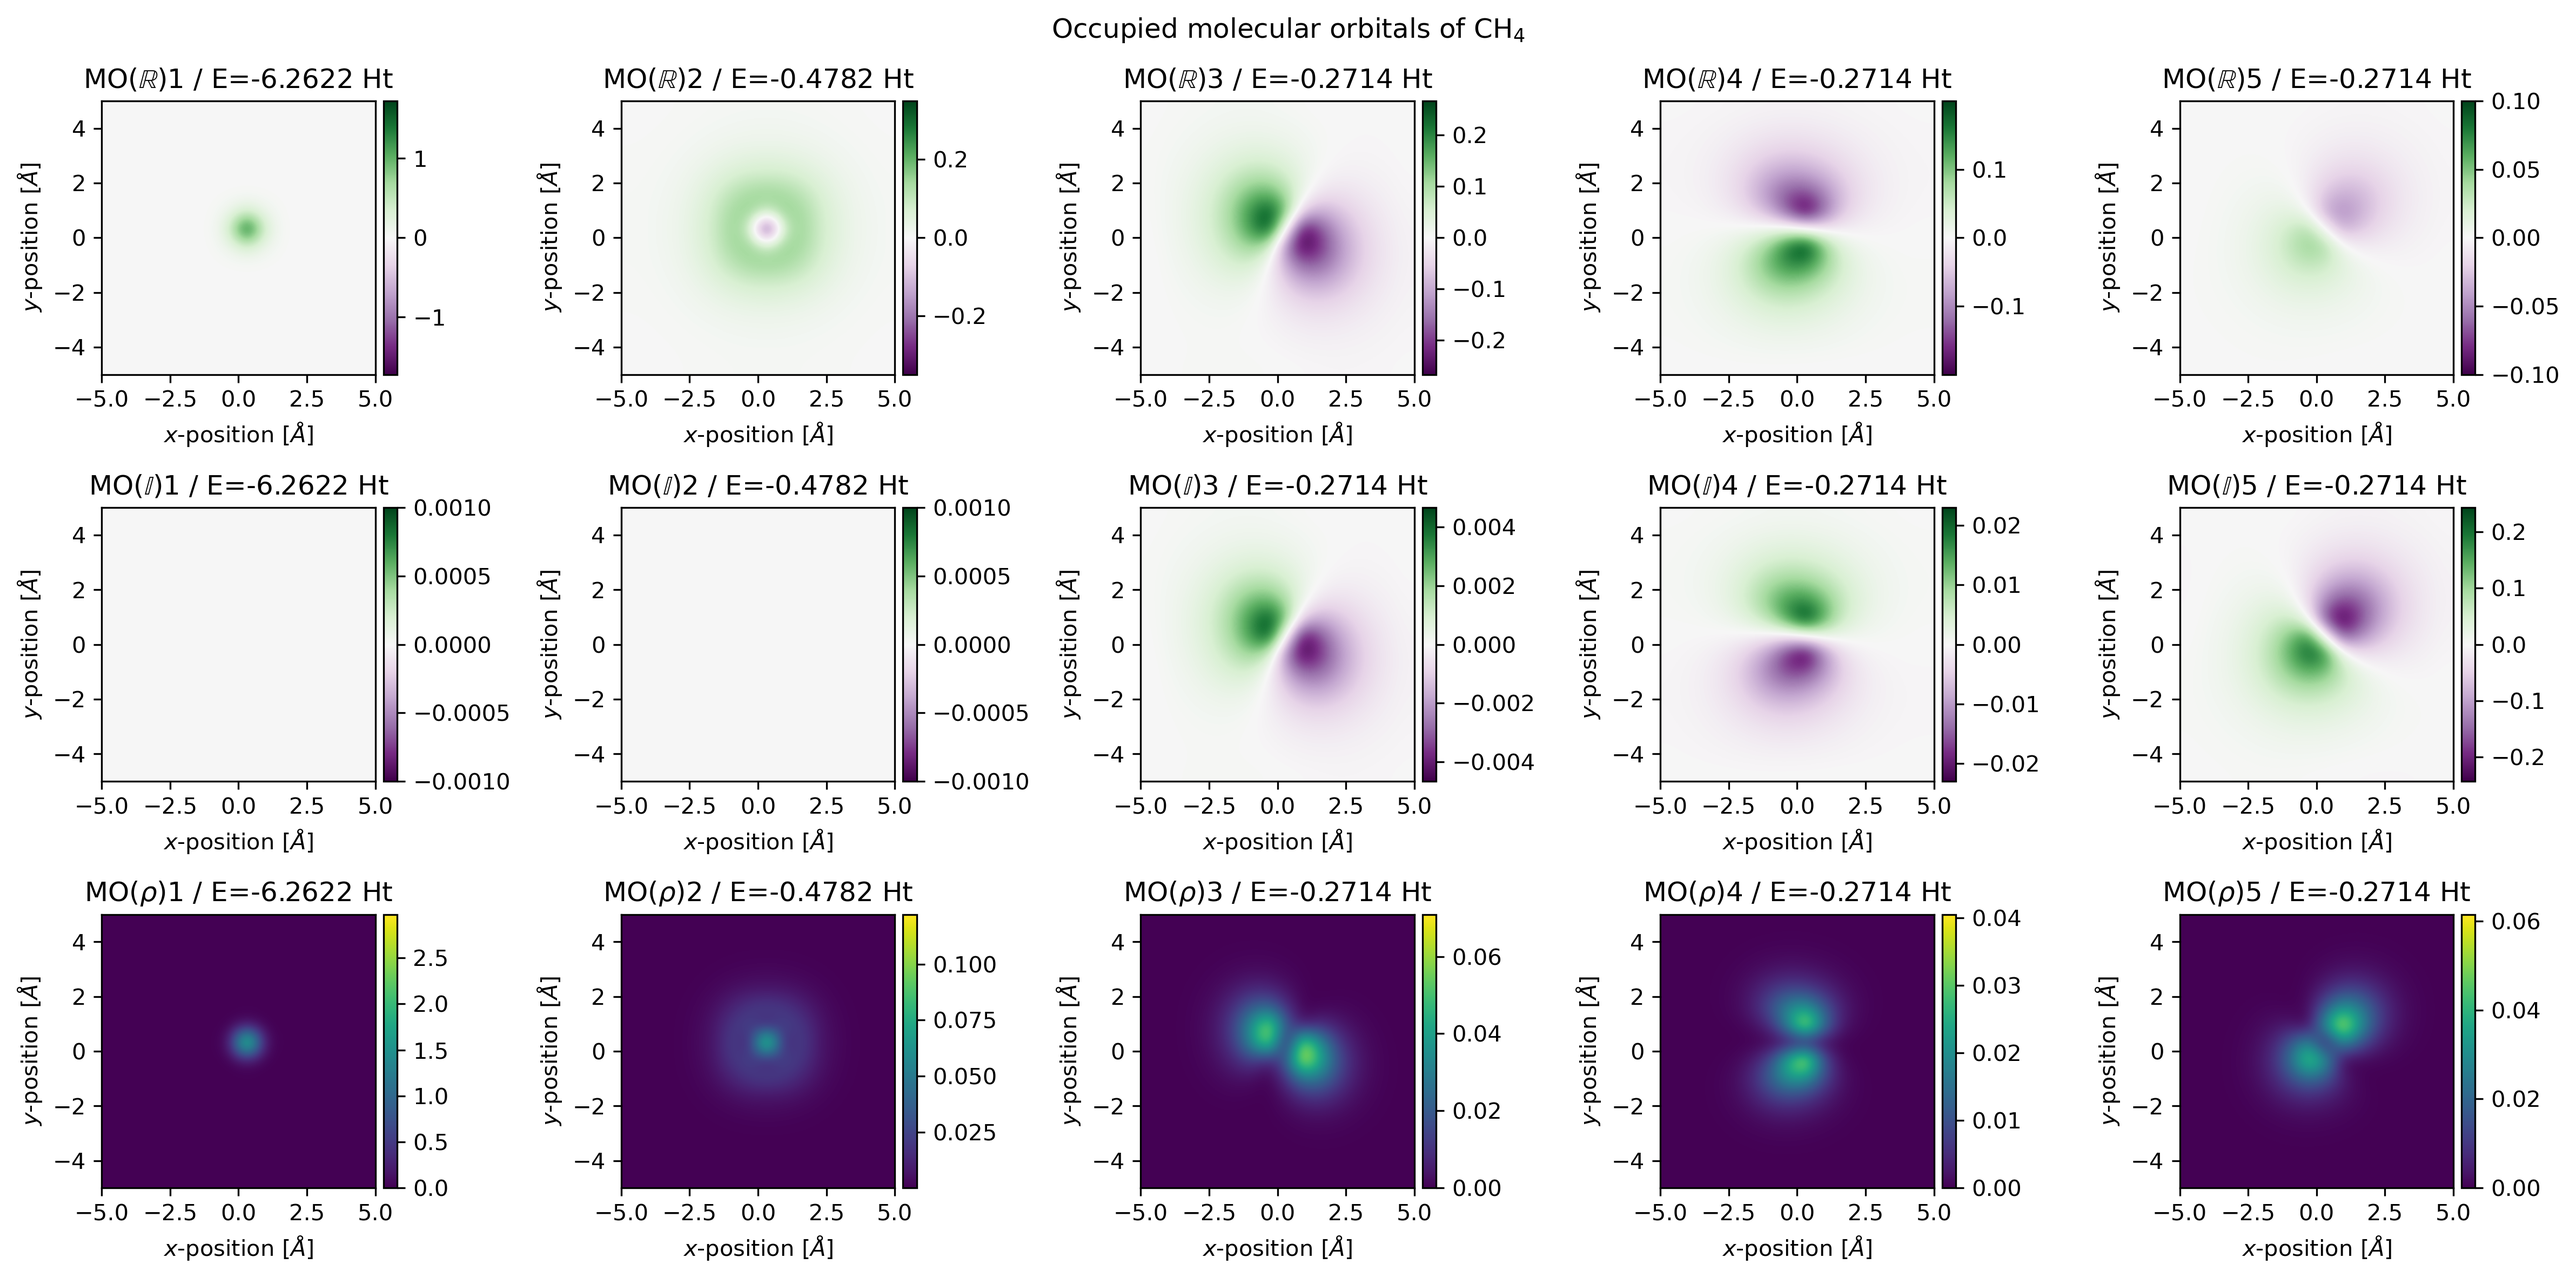
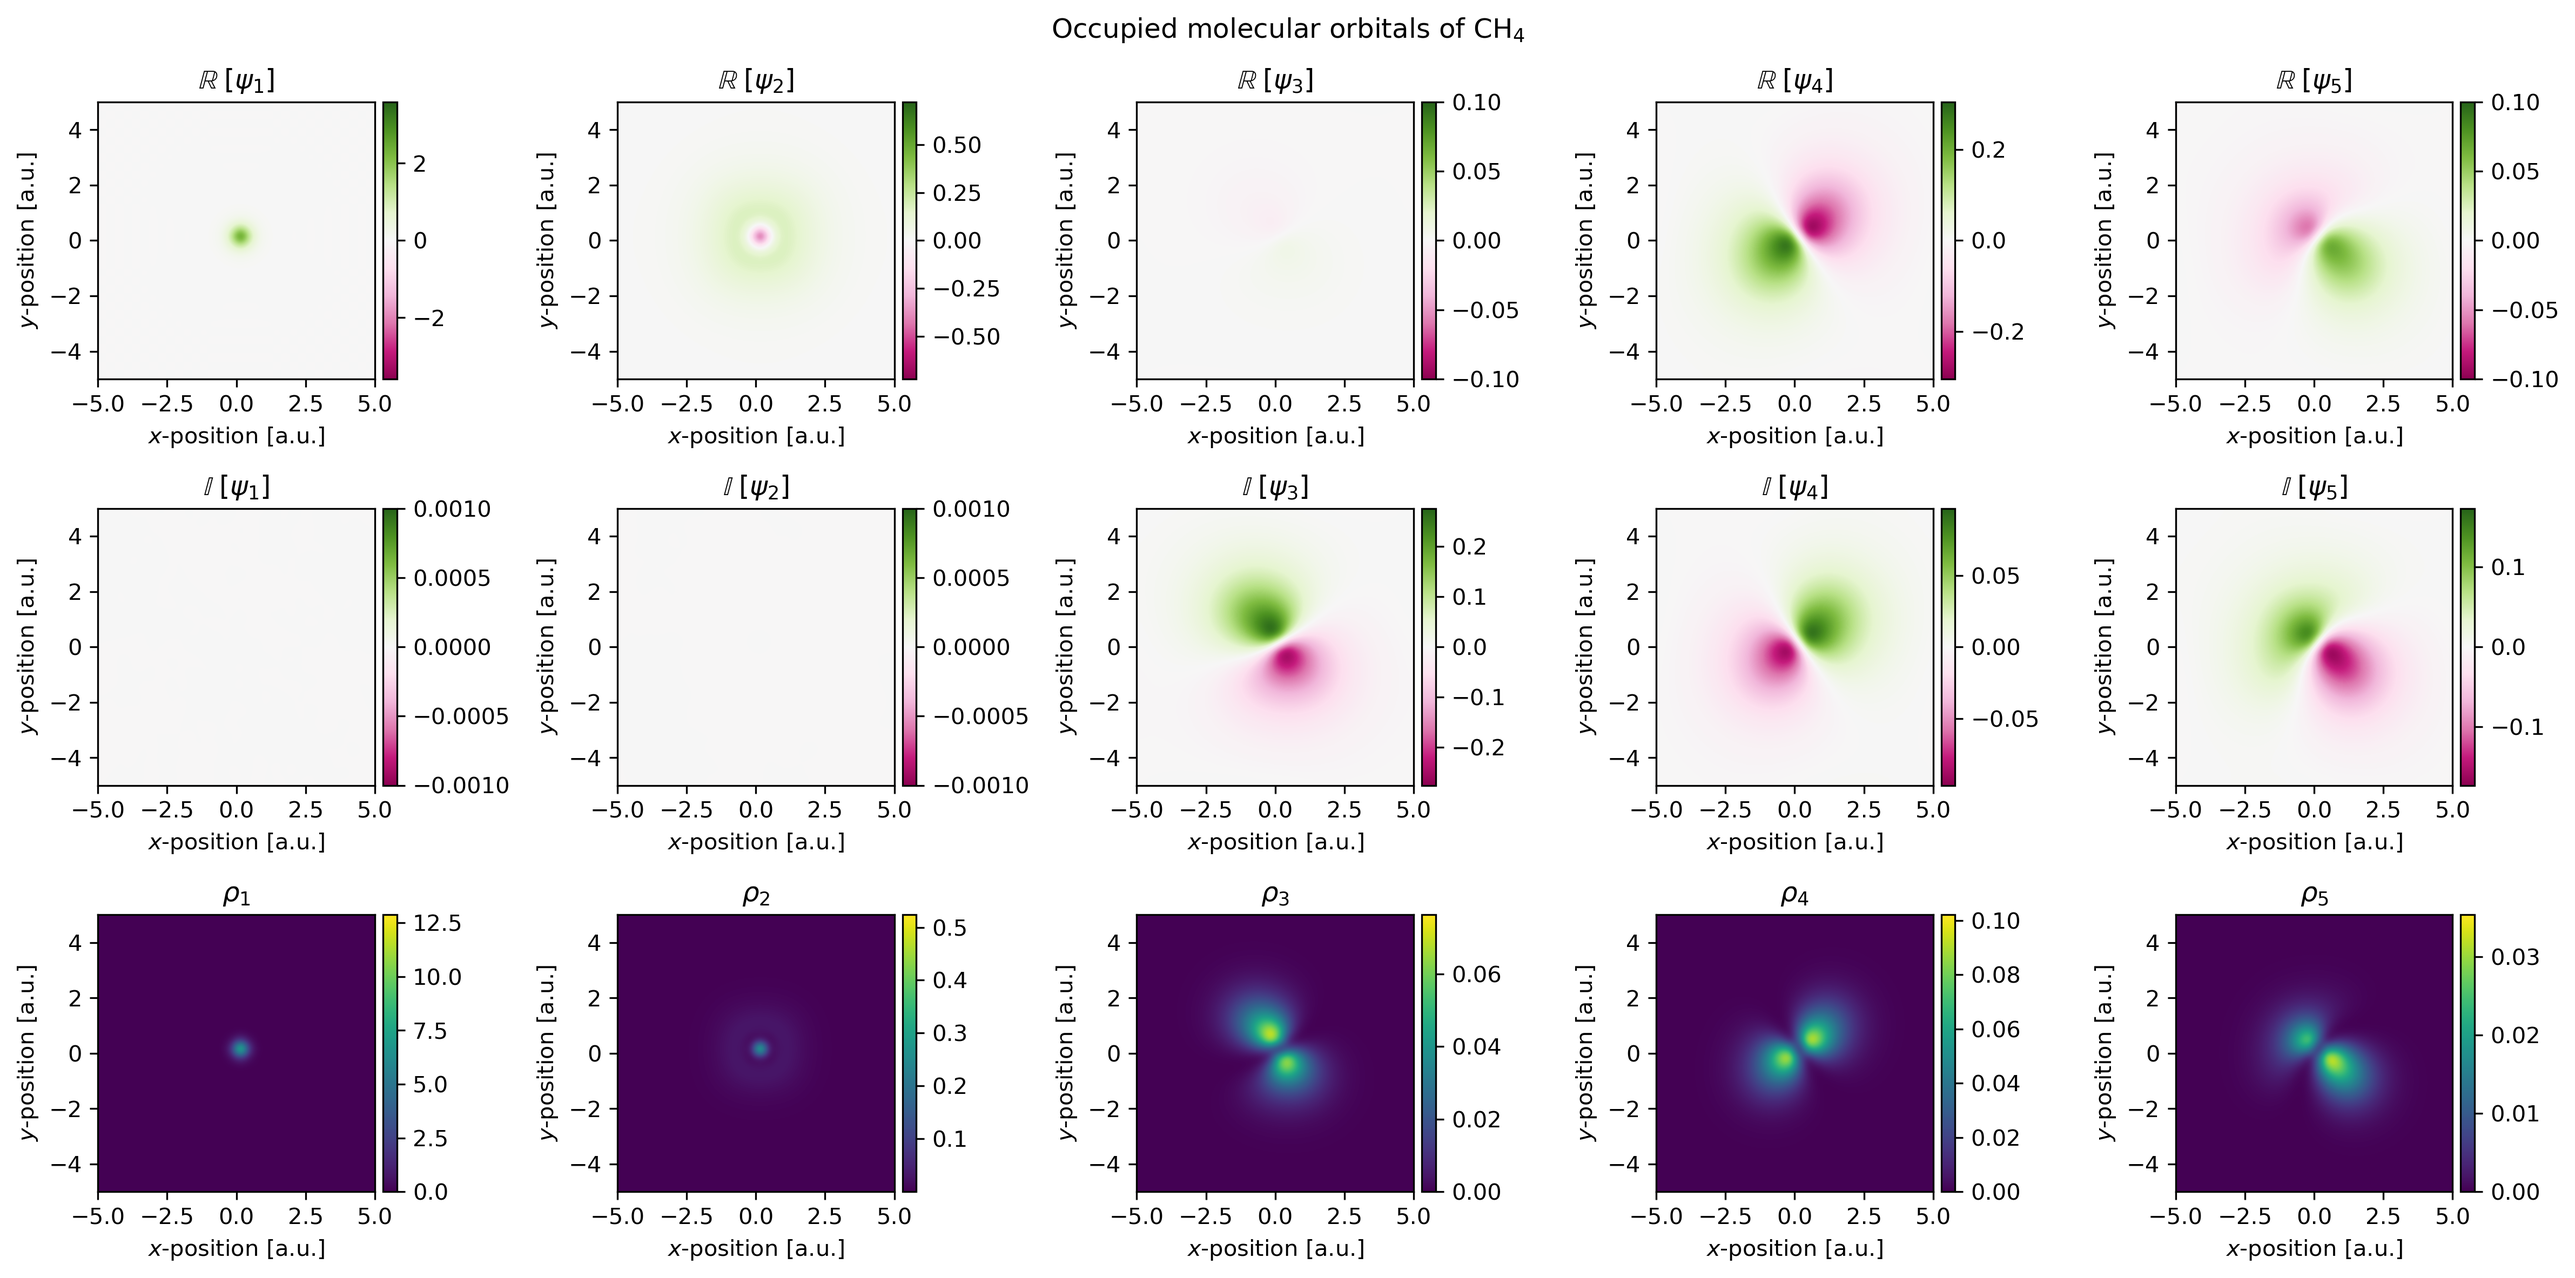
Expanding documentation

diff --git a/examples/example_co_isosurface.py b/examples/example_co_isosurface.py
@@ -1,0 +1,86 @@
+# -*- coding: utf-8 -*-
+
+# 
+# This file is part of the PyPWDFT distribution 
+# Copyright (c) 2024 Ivo Filot
+# 
+# This program is free software: you can redistribute it and/or modify  
+# it under the terms of the GNU General Public License as published by  
+# the Free Software Foundation, version 3.
+#
+# This program is distributed in the hope that it will be useful, but 
+# WITHOUT ANY WARRANTY; without even the implied warranty of 
+# MERCHANTABILITY or FITNESS FOR A PARTICULAR PURPOSE. See the GNU 
+# General Public License for more details.
+#
+# You should have received a copy of the GNU General Public License 
+# along with this program. If not, see <http://www.gnu.org/licenses/>.
+#
+
+# PURPOSE
+# =======
+#
+# Perform an electronic structure calculation of CO and visualize its valence 
+# orbitals. This script builds the isosurfaces
+#
+
+import os, sys
+import numpy as np
+from pytessel import PyTessel
+from scipy.interpolate import RegularGridInterpolator
+
+
+# add a reference to load the PyPWDFT module
+sys.path.append(os.path.join(os.path.dirname(__file__), '..'))
+
+# import the required libraries for the test
+from pypwdft import PyPWDFT, SystemBuilder, PeriodicSystem
+
+def main():
+    # create cubic periodic system with lattice size of 10 Bohr units
+    npts = 32       # number of grid points
+    sz = 10
+    
+    # construct CO molecule system via SystemBuilder
+    s = SystemBuilder().from_name('CO', sz=sz, npts=npts)
+        
+    # construct calculator object
+    calculator = PyPWDFT(s)
+    
+    # perform self-consistent field procedure and store results in res object
+    res = calculator.scf(tol=1e-5, nsol=9, verbose=True)
+    
+    # generate PyTessel object
+    pytessel = PyTessel()
+    
+    for i in range(2,9):
+        print('Building isosurfaces: %02i' % (i+1))
+        scalarfield = interpolate_grid(res['orbc_rs'][i], sz, npts, 4)
+        unitcell = np.identity(3) * sz
+        
+        # build positive real isosurface
+        vertices, normals, indices = pytessel.marching_cubes(scalarfield.real.flatten(), scalarfield.shape, unitcell.flatten(), 0.1)
+        pytessel.write_ply('MO_PR_%02i.ply' % (i+1), vertices, normals, indices)
+        
+        # build negative real isosurface
+        vertices, normals, indices = pytessel.marching_cubes(scalarfield.real.flatten(), scalarfield.shape, unitcell.flatten(), -0.1)
+        pytessel.write_ply('MO_NR_%02i.ply' % (i+1), vertices, normals, indices)
+        
+        # build positive imaginary isosurface
+        vertices, normals, indices = pytessel.marching_cubes(scalarfield.imag.flatten(), scalarfield.shape, unitcell.flatten(), 0.1)
+        pytessel.write_ply('MO_PI_%02i.ply' % (i+1), vertices, normals, indices)
+        
+        # build negative imaginary isosurface
+        vertices, normals, indices = pytessel.marching_cubes(scalarfield.imag.flatten(), scalarfield.shape, unitcell.flatten(), -0.1)
+        pytessel.write_ply('MO_NI_%02i.ply' % (i+1), vertices, normals, indices)
+
+def interpolate_grid(scalarfield, sz, npts, amp=2):
+    x = np.linspace(0, sz, npts)
+    interp = RegularGridInterpolator((x,x,x), scalarfield, method='quintic')
+    s = PeriodicSystem(sz, npts * amp)
+    points = s.get_r()
+    
+    return interp(points)
+
+if __name__ == '__main__':
+    main()

diff --git a/examples/example_ch4.py b/examples/example_ch4.py
@@ -38,7 +38,7 @@ from mpl_toolkits.axes_grid1 import make_axes_locatable
 
 def main():
     # create cubic periodic system with lattice size of 10 Bohr units
-    npts = 16   # number of grid points
+    npts = 32   # number of grid points
     sz = 10
     
     # construct CH4 molecule system via SystemBuilder
@@ -62,28 +62,28 @@ def main():
         field = np.real(res['orbc_rs'][i][npts//2, :, :])
         maxval = max(np.max(np.abs(field)), 0.1)
         m[0][i] = im[0,i].imshow(field, origin='lower',
-                   interpolation='bicubic', extent=extent, cmap='PRGn',
+                   interpolation='bicubic', extent=extent, cmap='PiYG',
                    vmin=-maxval, vmax=maxval)
-        im[0,i].set_title(r'MO($\mathbb{R}$)%i / E=%6.4f Ht' % (i+1, orbe[i]))
+        im[0,i].set_title(r'$\mathbb{R}\;[\psi_{%i}]$' % (i+1))
         
         # visualize the imaginary part of the wave function
         field = np.imag(res['orbc_rs'][i][npts//2, :, :])
         maxval = max(np.max(np.abs(field)), 0.001)
         m[1][i] = im[1,i].imshow(field, origin='lower',
-                   interpolation='bicubic', extent=extent, cmap='PRGn',
+                   interpolation='bicubic', extent=extent, cmap='PiYG',
                    vmin=-maxval, vmax=maxval)
-        im[1,i].set_title(r'MO($\mathbb{I}$)%i / E=%6.4f Ht' % (i+1, orbe[i]))
+        im[1,i].set_title(r'$\mathbb{I}\;[\psi_{%i}]$' % (i+1))
         
         # visualize the electron density
         m[2][i] = im[2,i].imshow(np.real(res['orbc_rs'][i][npts//2, :, :].conj() * 
                                res['orbc_rs'][i][npts//2, :, :]), 
                        origin='lower', interpolation='bicubic', extent=extent)
-        im[2,i].set_title(r'MO($\rho$)%i / E=%6.4f Ht' % (i+1, orbe[i]))
+        im[2,i].set_title(r'$\rho_{%i}$' % (i+1))
         
     for j in range(0,3):
         for i in range(0,5):
-            im[j,i].set_xlabel('$x$-position [$\AA$]')
-            im[j,i].set_ylabel('$y$-position [$\AA$]')
+            im[j,i].set_xlabel('$x$-position [a.u.]')
+            im[j,i].set_ylabel('$y$-position [a.u.]')
             
             divider = make_axes_locatable(im[j,i])
             cax = divider.append_axes('right', size='5%', pad=0.05)

diff --git a/docs/usage.rst b/docs/usage.rst
@@ -198,3 +198,179 @@ dictionary. This dictionary contains the following entries:
 .. note::
 
     All energies are provided in Hartrees.
+
+Visualizing molecular orbitals
+------------------------------
+
+Molecular orbitals can be visualized using `matplotlib
+<https://matplotlib.org/>`_. The results of the :class:`pypwdft.PyPWDFT.scf`
+routine is a dictionary of which one of its elements is :code:`orbc_rs`. This
+element corresponds to a four-dimensional array where the first index loops over
+the molecular orbitals with increasing orbital energy. 
+
+Two-dimensional projections
+###########################
+
+By setting the two indices, one can essentially extract a specific z-layer from
+the scalar field of any of the molecular orbitals and in turn visualize these
+using the :code:`imshow` function of matplotlib. This is demonstrated in the
+script below.
+
+.. note::
+
+    The wave functions generated by a plane wave density functional theory
+    calculation are complex values, i.e.
+
+    .. math::
+
+        \psi(\vec{r}) \in \mathbb{C}^{3}
+
+    and as such, it is recommended to visualize both the real and complex parts of
+    the wave function as well as its electron density as given by
+
+    .. math::
+
+        \rho = |\psi(\vec{r})|^{2} = \psi(\vec{r}) \cdot \psi^{*}(\vec{r}).
+
+.. code::
+
+    # import the required libraries for the test
+    from pypwdft import PyPWDFT, PeriodicSystem, SystemBuilder
+    import numpy as np
+    import matplotlib.pyplot as plt
+    from mpl_toolkits.axes_grid1 import make_axes_locatable
+
+    def main():
+        # create cubic periodic system with lattice size of 10 Bohr units
+        npts = 32   # number of grid points
+        sz = 10
+        
+        # construct CH4 molecule system via SystemBuilder
+        s = SystemBuilder().from_name('CH4', sz=sz, npts=npts)
+            
+        # construct calculator object
+        calculator = PyPWDFT(s)
+        
+        # perform self-consistent field procedure and store results in res object
+        res = calculator.scf(tol=1e-1, verbose=True)
+        
+        # visualize the occupied molecular orbitals
+        fig, im = plt.subplots(3,5, dpi=300, figsize=(16,8))
+        extent=[-sz/2,sz/2,-sz/2,sz/2]
+        orbe = res['orbe']
+        fig.suptitle('Occupied molecular orbitals of CH$_{4}$')
+        m = np.empty((3,5), dtype=object) # create placeholder for maps
+        
+        for i in range(0,5):
+            # visualize the real part of the wave function
+            field = np.real(res['orbc_rs'][i][npts//2, :, :])
+            maxval = max(np.max(np.abs(field)), 0.1)
+            m[0][i] = im[0,i].imshow(field, origin='lower',
+                    interpolation='bicubic', extent=extent, cmap='PiYG',
+                    vmin=-maxval, vmax=maxval)
+            im[0,i].set_title(r'$\mathbb{R}\;[\psi_{%i}]$' % (i+1))
+            
+            # visualize the imaginary part of the wave function
+            field = np.imag(res['orbc_rs'][i][npts//2, :, :])
+            maxval = max(np.max(np.abs(field)), 0.001)
+            m[1][i] = im[1,i].imshow(field, origin='lower',
+                    interpolation='bicubic', extent=extent, cmap='PiYG',
+                    vmin=-maxval, vmax=maxval)
+            im[1,i].set_title(r'$\mathbb{I}\;[\psi_{%i}]$' % (i+1))
+            
+            # visualize the electron density
+            m[2][i] = im[2,i].imshow(np.real(res['orbc_rs'][i][npts//2, :, :].conj() * 
+                                res['orbc_rs'][i][npts//2, :, :]), 
+                        origin='lower', interpolation='bicubic', extent=extent)
+            im[2,i].set_title(r'$\rho_{%i}$' % (i+1))
+            
+        for j in range(0,3):
+            for i in range(0,5):
+                im[j,i].set_xlabel('$x$-position [a.u.]')
+                im[j,i].set_ylabel('$y$-position [a.u.]')
+                
+                divider = make_axes_locatable(im[j,i])
+                cax = divider.append_axes('right', size='5%', pad=0.05)
+                fig.colorbar(m[j][i], cax=cax, orientation='vertical')
+            
+        plt.tight_layout()
+        
+    if __name__ == '__main__':
+        main()
+
+The result of running this script is shown below.
+
+.. image:: _static/img/orbs_ch4.png
+
+Isosurfaces
+###########
+
+Alternative to two-dimensional projections, one can also create isosurfaces. For
+this, we will use the external module `PyTessel
+<https://pytessel.imc-tue.nl/>`_. For isosurfaces, a relatively large number of
+sampling points for the scalar fields are required. However, this comes at the
+expense of computational time and for this reason, we will perform the
+electronic structure calculation initially using only 32 sampling points per
+Cartesian direction and follow up using quintic interpolation to "upsample" the
+scalar fields. An example of this process is shown in the image below.
+
+.. code::
+
+    import numpy as np
+    from pytessel import PyTessel
+    from scipy.interpolate import RegularGridInterpolator
+    from pypwdft import PyPWDFT, SystemBuilder, PeriodicSystem
+
+    def main():
+        # create cubic periodic system with lattice size of 10 Bohr units
+        npts = 32       # number of grid points
+        sz = 10
+        
+        # construct CO molecule system via SystemBuilder
+        s = SystemBuilder().from_name('CO', sz=sz, npts=npts)
+            
+        # construct calculator object
+        calculator = PyPWDFT(s)
+        
+        # perform self-consistent field procedure and store results in res object
+        res = calculator.scf(tol=1e-5, nsol=9, verbose=True)
+        
+        # generate PyTessel object
+        pytessel = PyTessel()
+        
+        for i in range(2,9):
+            print('Building isosurfaces: %02i' % (i+1))
+            scalarfield = interpolate_grid(res['orbc_rs'][i], sz, npts, 4)
+            unitcell = np.identity(3) * sz
+            
+            # build positive real isosurface
+            vertices, normals, indices = pytessel.marching_cubes(scalarfield.real.flatten(), scalarfield.shape, unitcell.flatten(), 0.1)
+            pytessel.write_ply('MO_PR_%02i.ply' % (i+1), vertices, normals, indices)
+            
+            # build negative real isosurface
+            vertices, normals, indices = pytessel.marching_cubes(scalarfield.real.flatten(), scalarfield.shape, unitcell.flatten(), -0.1)
+            pytessel.write_ply('MO_NR_%02i.ply' % (i+1), vertices, normals, indices)
+            
+            # build positive imaginary isosurface
+            vertices, normals, indices = pytessel.marching_cubes(scalarfield.imag.flatten(), scalarfield.shape, unitcell.flatten(), 0.1)
+            pytessel.write_ply('MO_PI_%02i.ply' % (i+1), vertices, normals, indices)
+            
+            # build negative imaginary isosurface
+            vertices, normals, indices = pytessel.marching_cubes(scalarfield.imag.flatten(), scalarfield.shape, unitcell.flatten(), -0.1)
+            pytessel.write_ply('MO_NI_%02i.ply' % (i+1), vertices, normals, indices)
+
+    def interpolate_grid(scalarfield, sz, npts, amp=2):
+        x = np.linspace(0, sz, npts)
+        interp = RegularGridInterpolator((x,x,x), scalarfield, method='quintic')
+        s = PeriodicSystem(sz, npts * amp)
+        points = s.get_r()
+        
+        return interp(points)
+
+    if __name__ == '__main__':
+        main()
+
+In the image below, the isosurfaces corresponding to the real part of the scalar
+field for the 3σ, 4σ and 1π orbitals are visualized.
+
+.. image:: _static/img/orbs_co_isosurfaces.png
